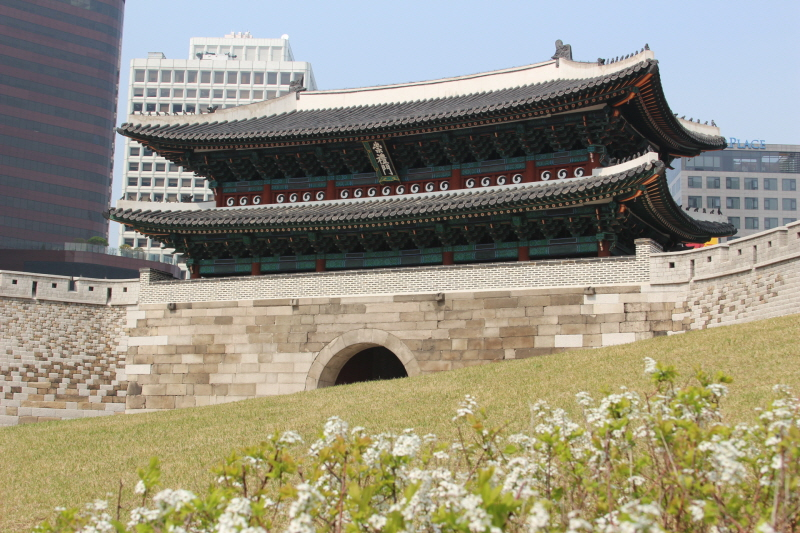
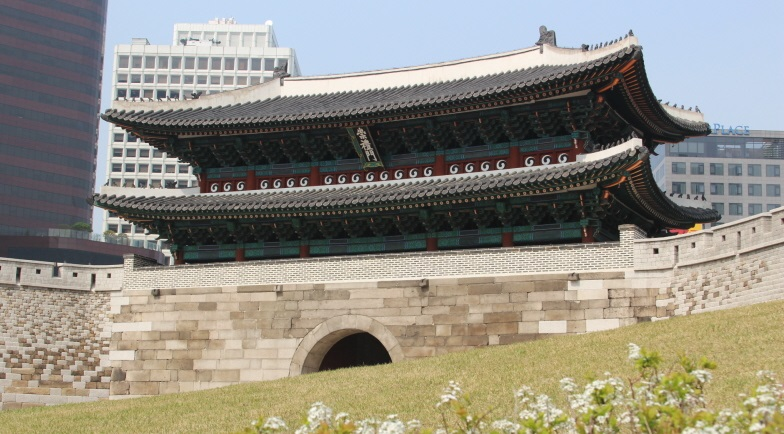
메인페이지

diff --git a/src/main/resources/templates/culturalProperties/culturalProperties.html b/src/main/resources/templates/culturalProperties/culturalProperties.html
@@ -17,10 +17,37 @@ layout:decorate="~{common/layout/layoutMenubar}">
 
         <style>
 
+        .hero-section {
+            position: relative; /* 부모 요소에 상대 위치를 지정 */
+        }
+
+        .search-bar {
+            position: absolute; /* 절대 위치 지정 */
+            top: 600px; /* 이미지 상단에서의 거리 */
+            left: 50%; /* 이미지의 가로 중앙으로 위치 */
+            transform: translateX(-50%); /* 왼쪽으로 50% 이동하여 중앙 정렬 */
+            width: 80%; /* 검색 바의 너비 */
+            z-index: 10; /* 다른 요소보다 위에 배치 */
+        }
+
+        /* 검색바 높이 늘리기 */
+        .search-bar input.form-control {
+            height: 50px; /* 입력 필드의 높이 */
+            font-size: 16px; /* 폰트 크기 */
+        }
+
+        .search-bar button {
+            height: 50px; /* 버튼의 높이 */
+            font-size: 16px; /* 폰트 크기 */
+        }
+
 
             .hero-section img {
-                height: 300px;
-                object-fit: cover;
+<!--                height: 800px;-->
+<!--                object-fit: cover;-->
+max-height: 400px; /* 최대 높이를 설정하여 비율 줄이기 */
+            width: 100%; /* 너비를 100%로 설정 */
+            object-fit: contain; /* 이미지 비율 유지하면서 전체 보이도록 */
             }
 
             .card-img-top {
@@ -46,7 +73,8 @@ layout:decorate="~{common/layout/layoutMenubar}">
 
     <main class="container mt-4">
         <section class="hero-section mb-4">
-            <img src="/static/img/mainimg.jpg" alt="대표 문화재" class="img-fluid w-100">
+            <img th:src="@{/img/culturalProperties/mainimg.jpg}" alt="대표 문화재" class="img-fluid w-100">
+<!--            <img src="/static/img/culturalProperties/mainimg.jpg" alt="대표 문화재" class="img-fluid w-100">-->
             <div class="search-bar mt-3">
                 <form class="d-flex">
                     <input class="form-control me-2" type="search" placeholder="검색어를 입력하세요" aria-label="Search">
